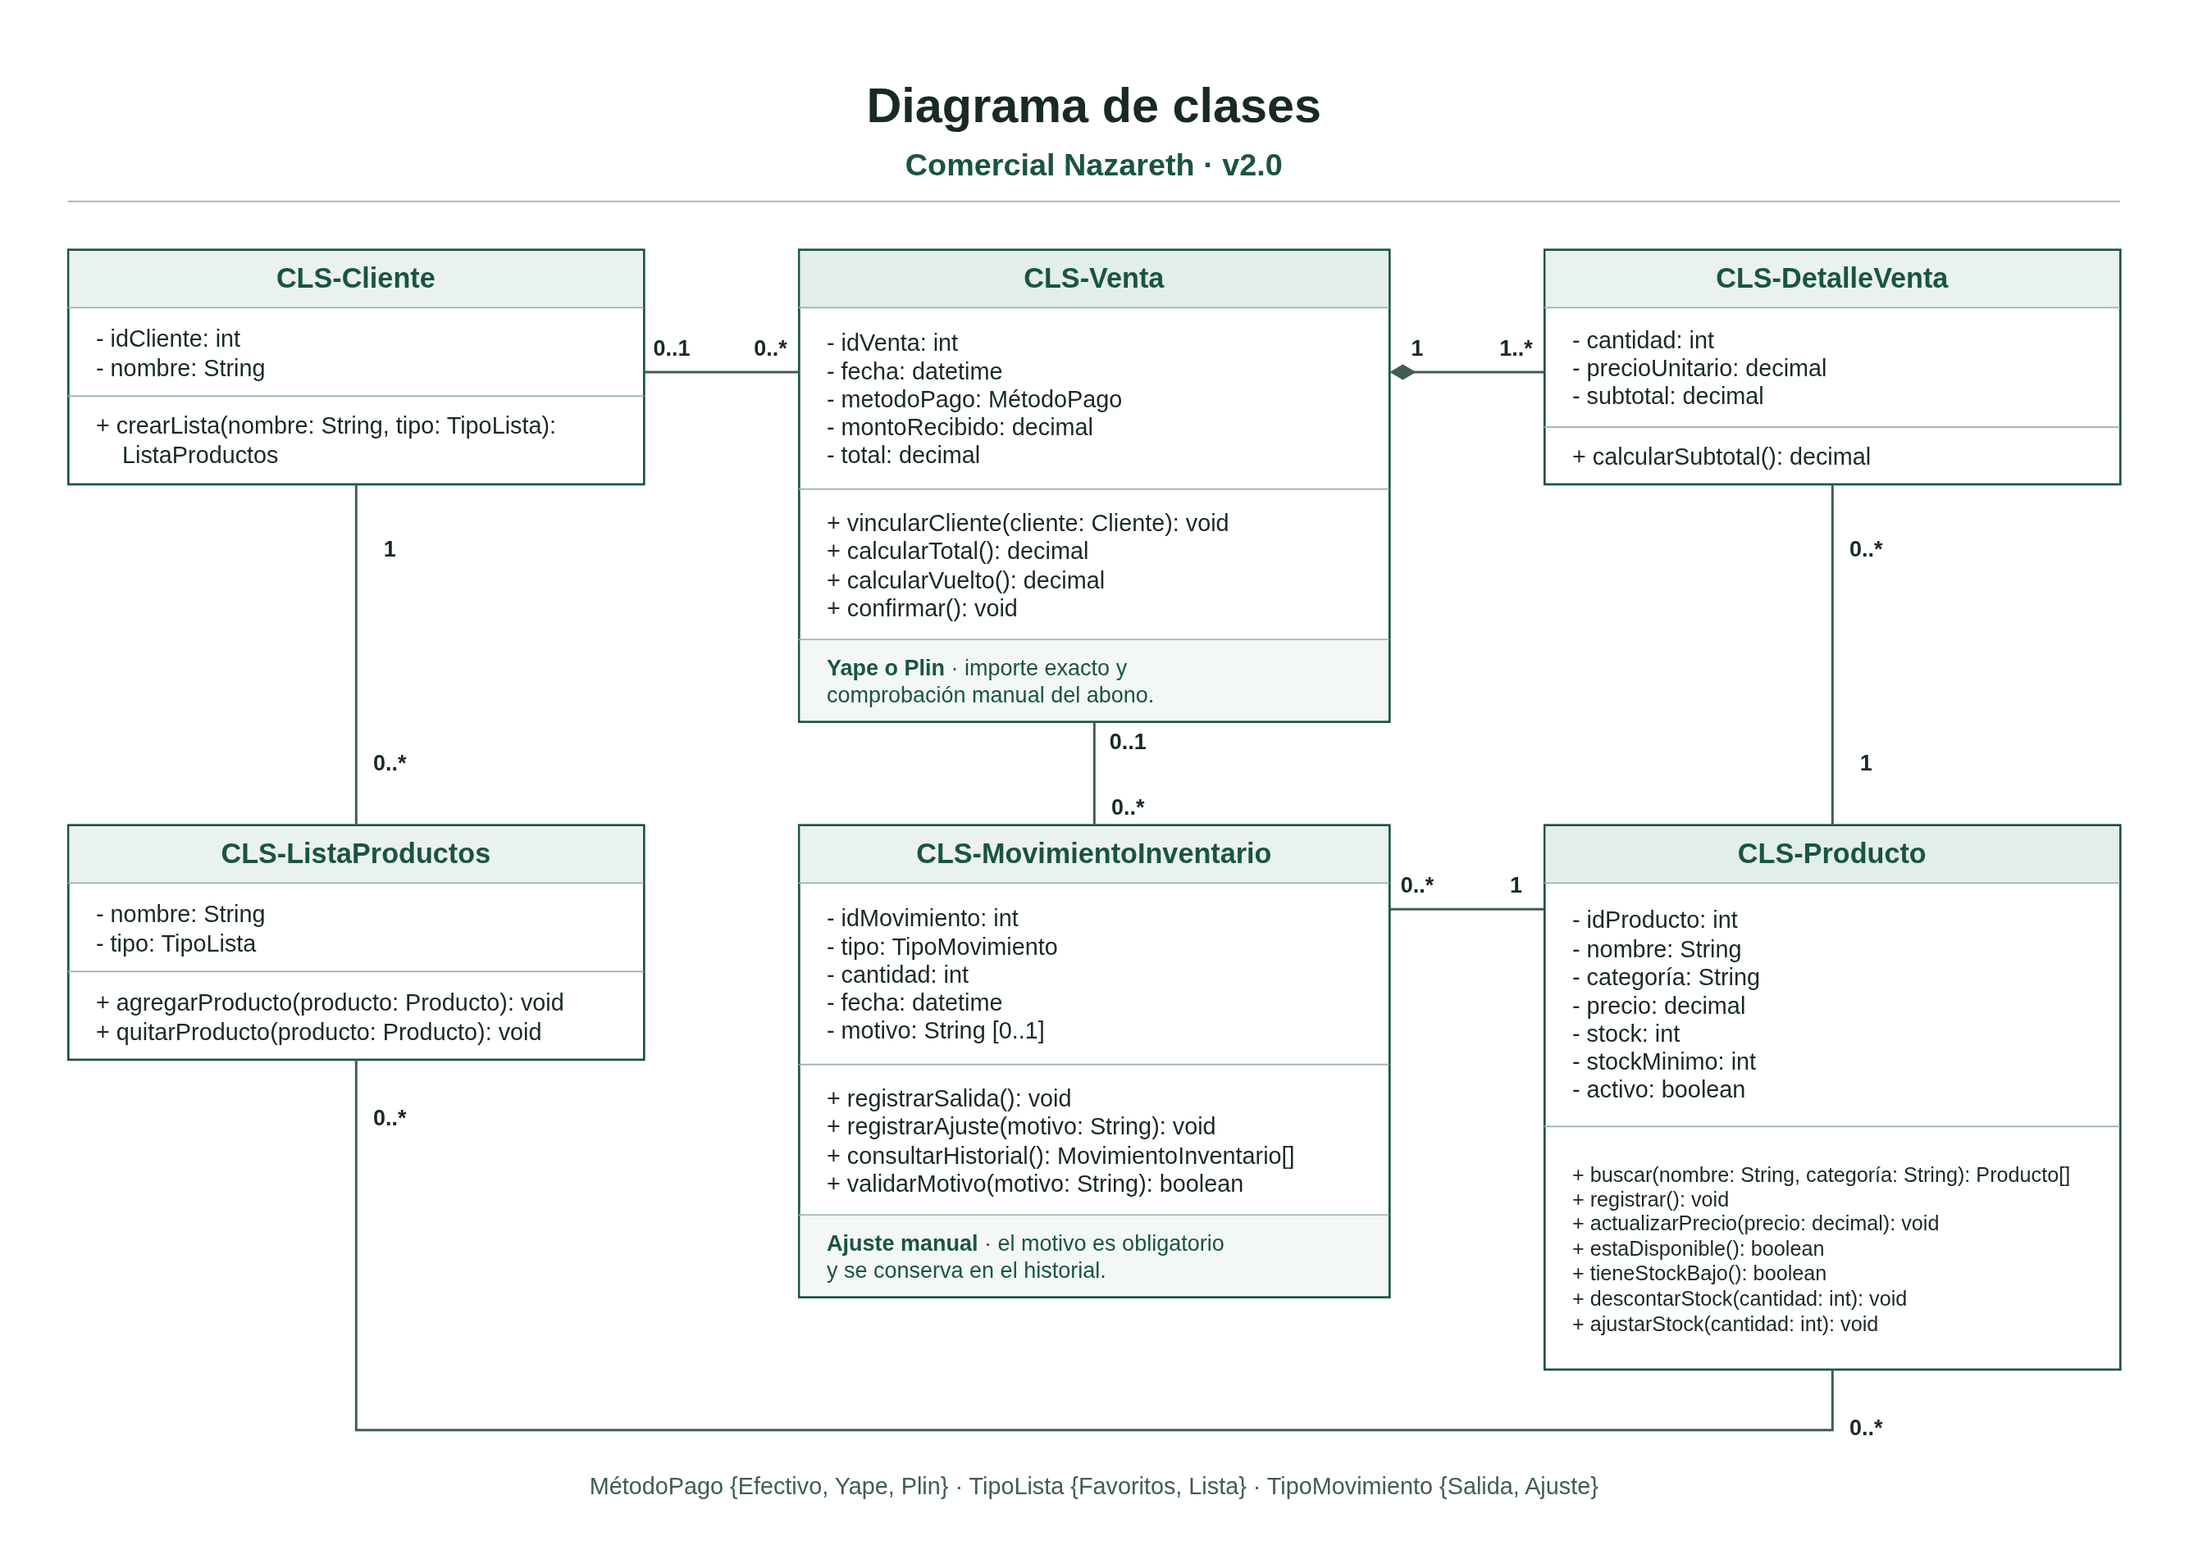
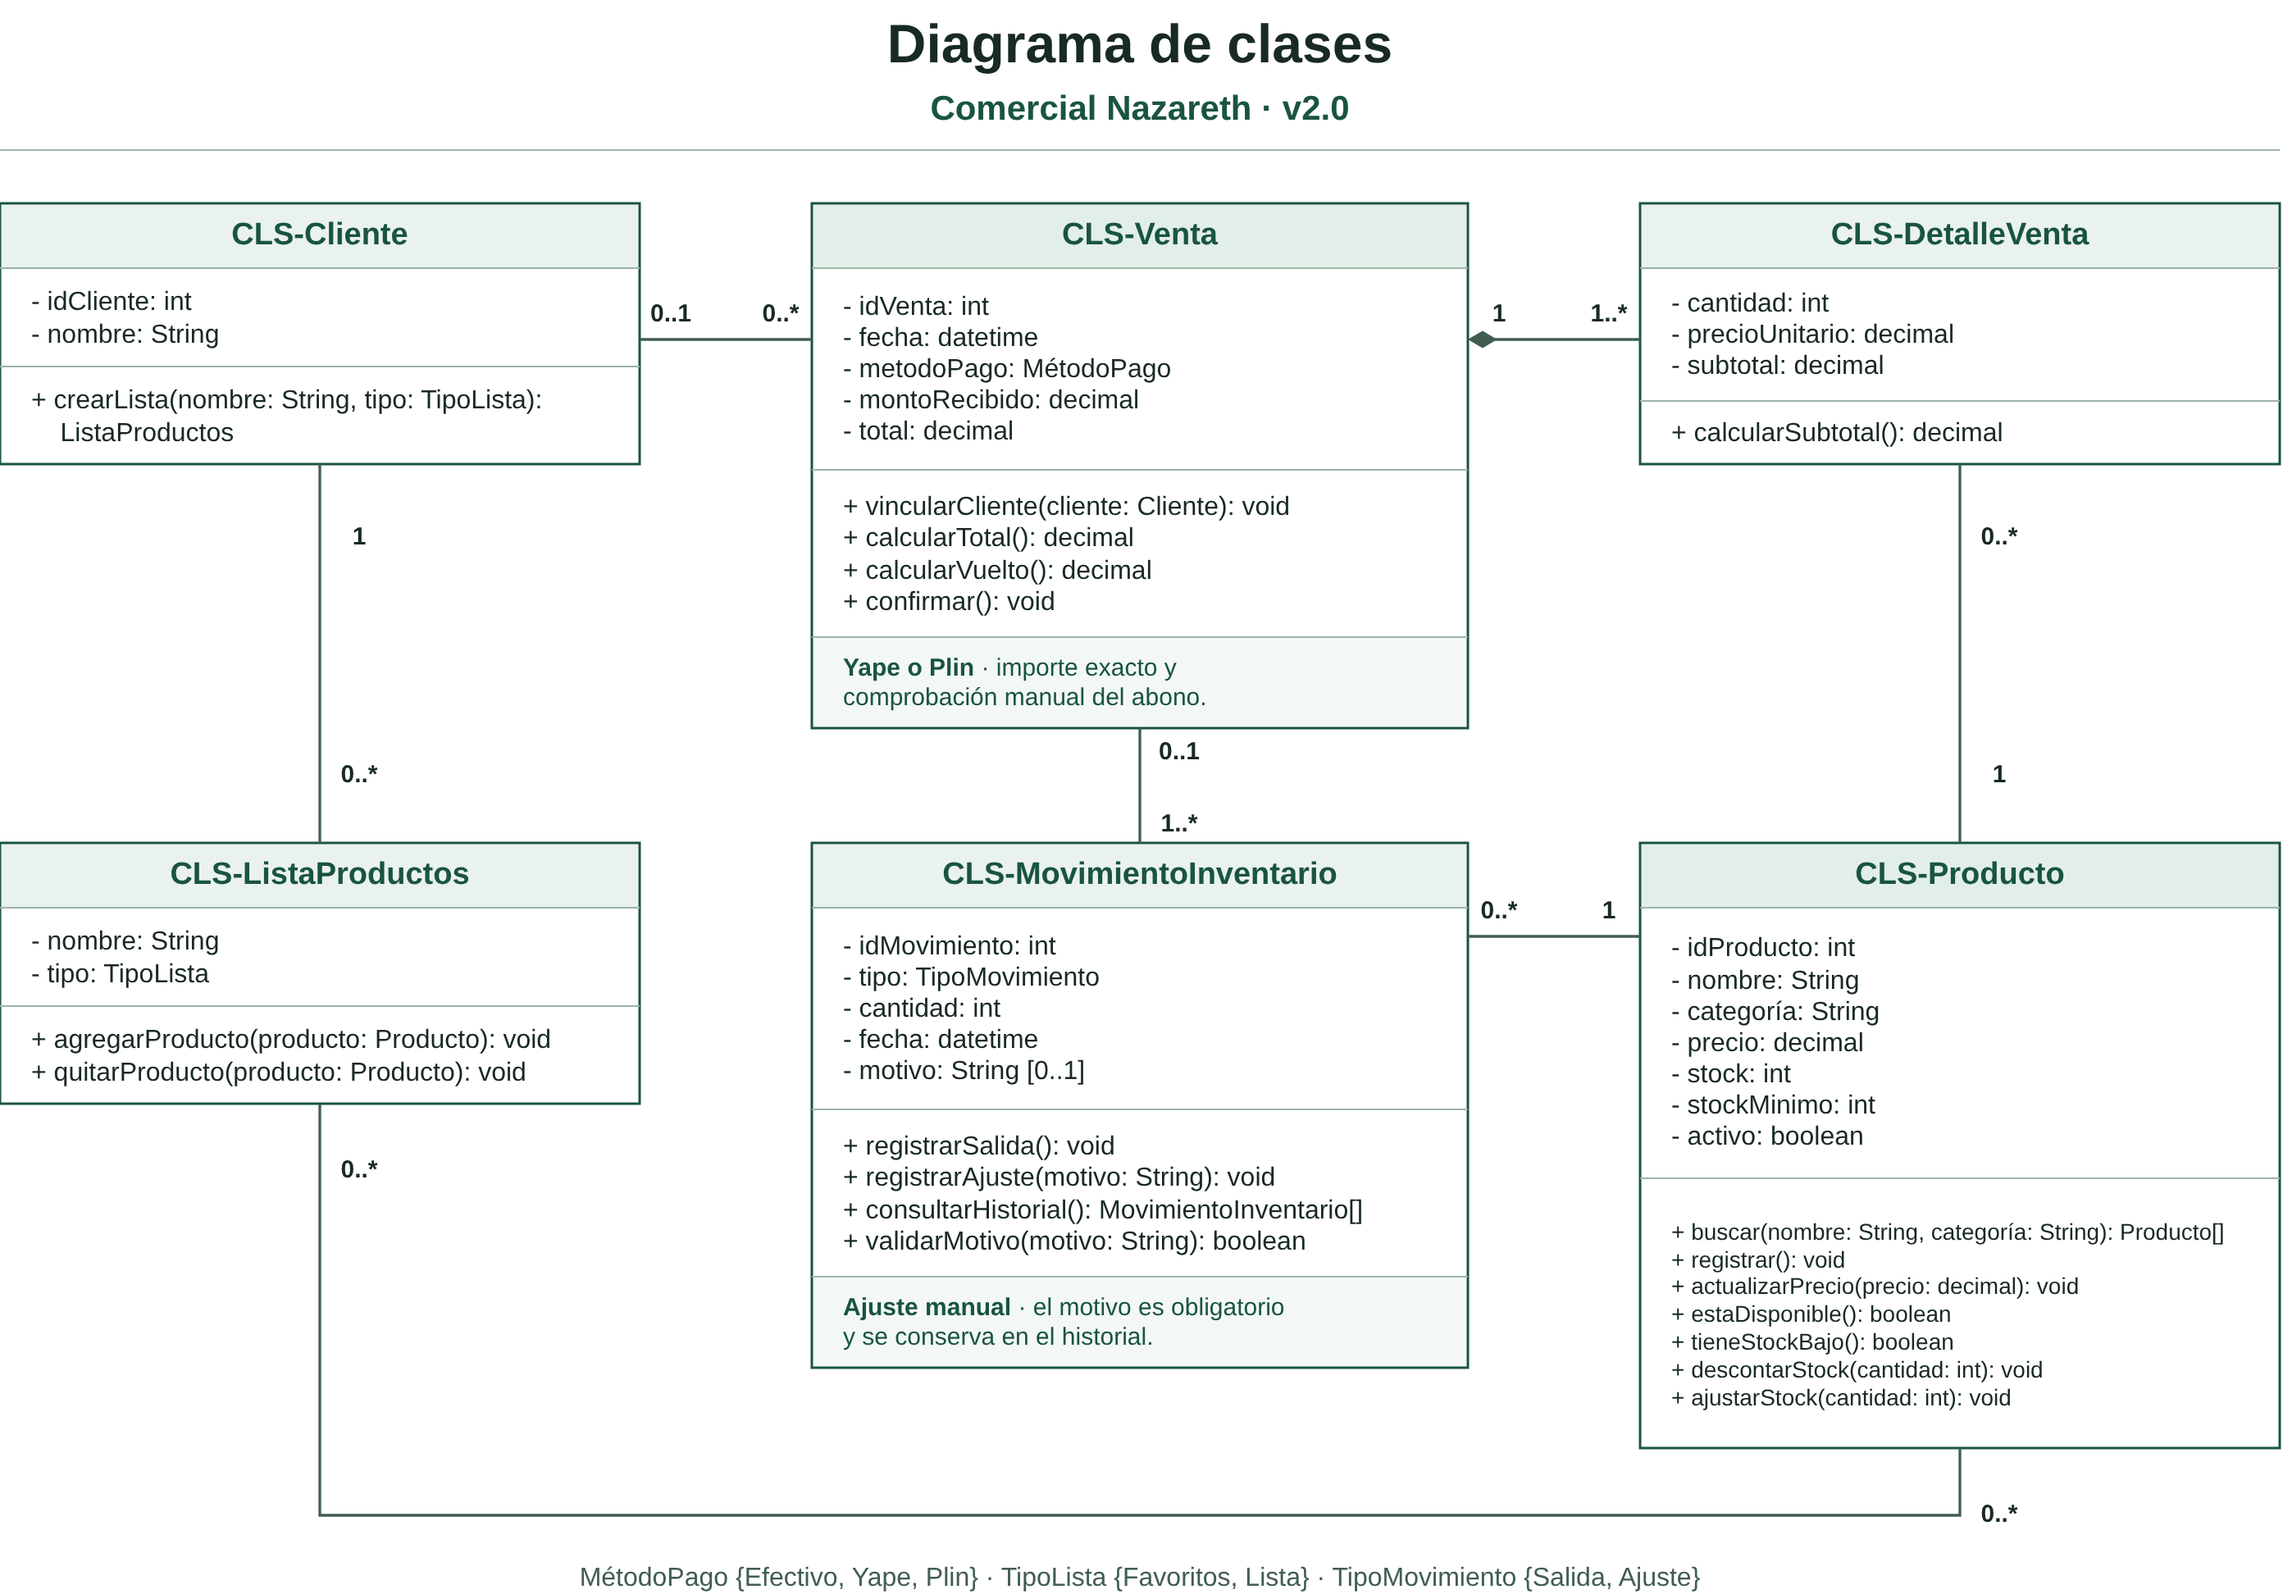
Corregir multiplicidad de movimientos por venta

diff --git a/README.md b/README.md
@@ -41,7 +41,7 @@ El [registro de cambios](docs/cambios.md) enlaza los Issues, los PR y la evidenc
 | Modelo | Visualización | Fuente editable |
 |---|---|---|
 | Casos de uso del sistema | [PNG](modelos/casos-de-uso.png) · [SVG](modelos/casos-de-uso.svg) | [draw.io](modelos/casos-de-uso.drawio) |
-| Clases del alcance seleccionado | [PNG](modelos/clases.png) | [draw.io](modelos/clases.drawio) |
+| Clases del alcance seleccionado | [PNG](modelos/clases.png) · [SVG](modelos/clases.svg) | [draw.io](modelos/clases.drawio) |
 | Flujo de CU-006: Gestionar inventario | [PNG](modelos/actividad-gestionar-inventario.png) | [draw.io](modelos/actividad-gestionar-inventario.drawio) · [XML](modelos/actividad-gestionar-inventario.xml) |
 
 ## Alcance de la trazabilidad
